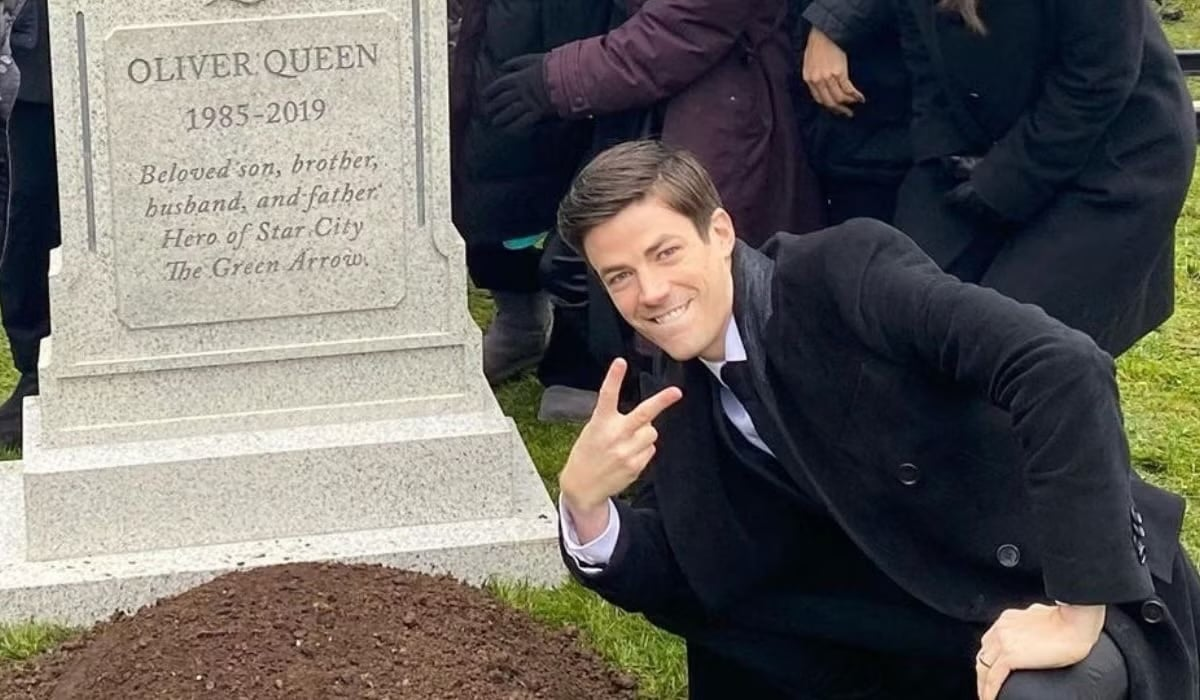
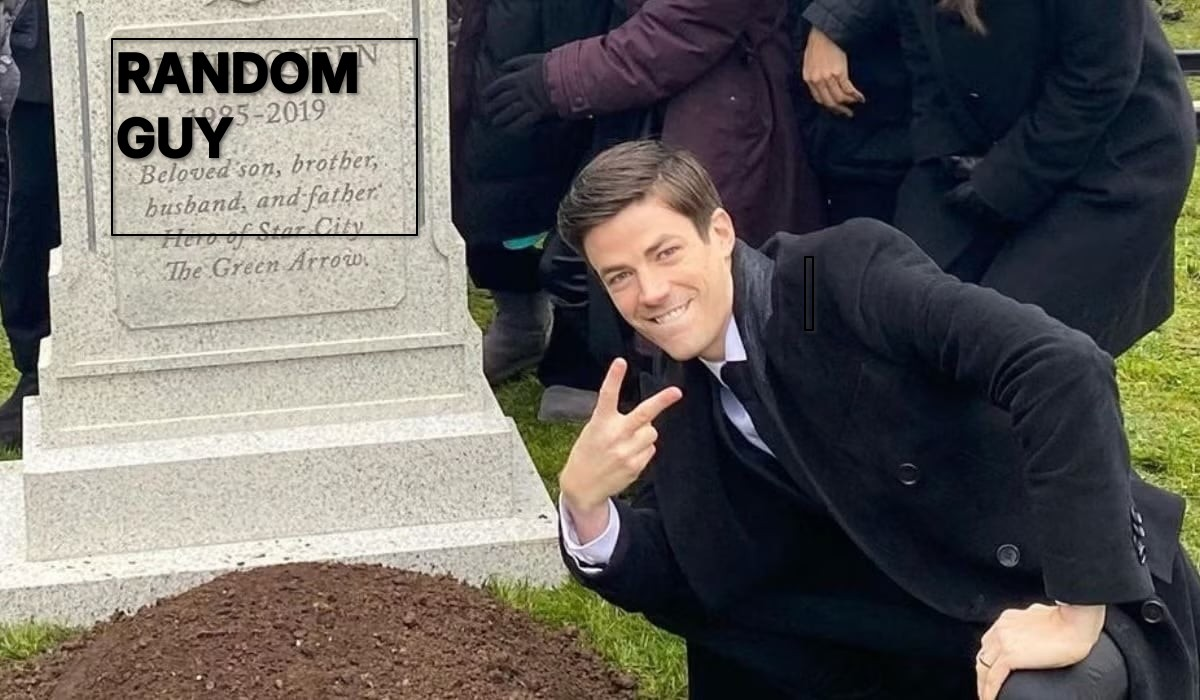
Refactor recent files structure, update workspace configuration, and add new post for November 18, 2026

Changed region(s): [[0.0925, 0.03, 0.37, 0.36], [0.6475, 0.36, 0.6783, 0.45]]

diff --git a/_posts/2026-11-18-hoje.md b/_posts/2026-11-18-hoje.md
@@ -1,0 +1,23 @@
+---
+title: Estive pensando, não por opção...
+description:
+date: 2026-11-18 19:57:59
+author: Val
+tags:
+  - pensamento
+pin: false
+image: assets/img/post-banners/barryalangrave.jpeg
+math: false
+mermaid: false
+calendar: "[[2026-11-18]]"
+---
+
+{: .prompt-quote }
+> Fazer de hoje o melhor momento, 
+> 
+> Preciso praticar mais isso, 
+> 
+> Parar de me distrair tanto por tão pouco, para de jogar minha vida fora...
+
+
+
